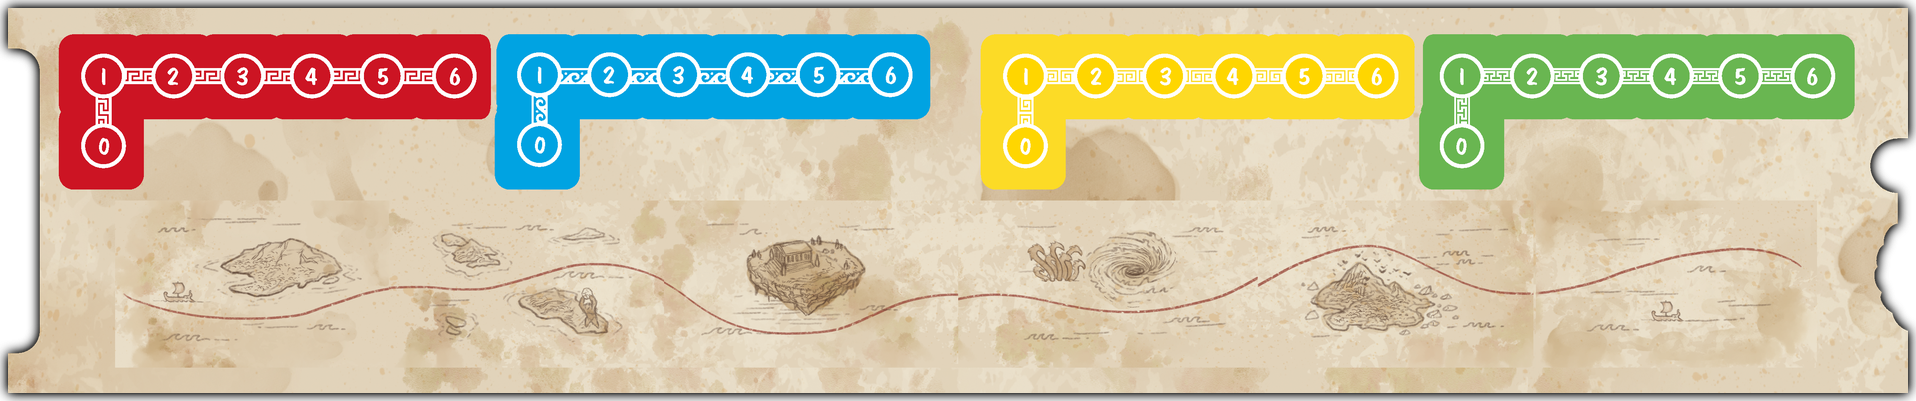
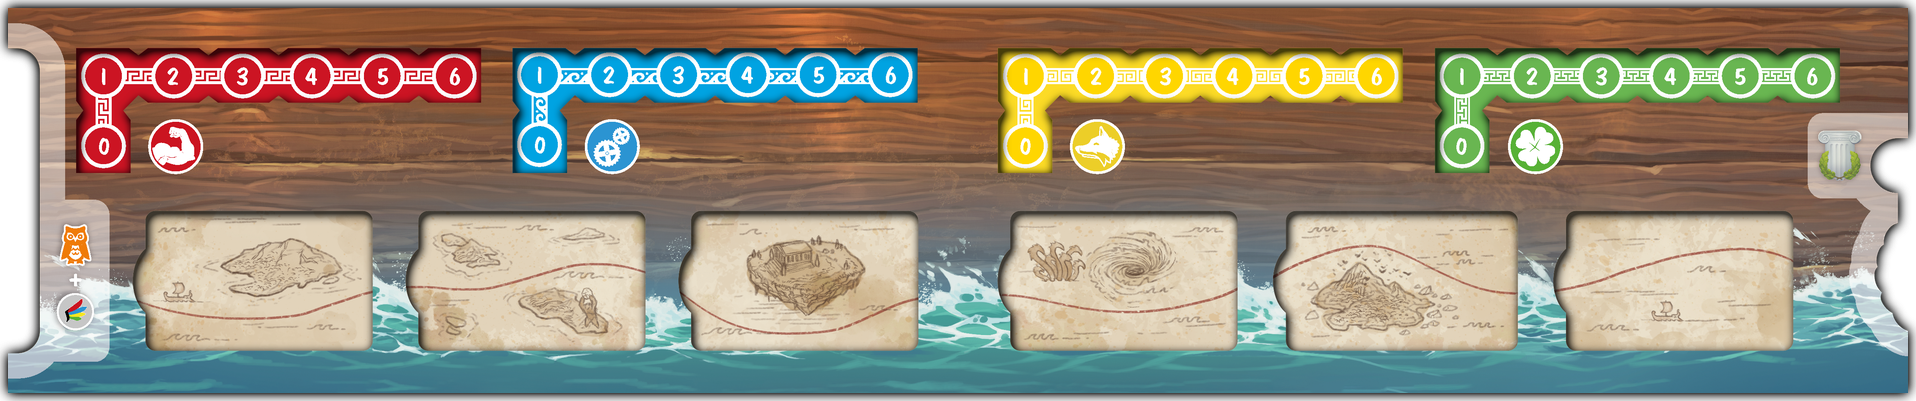
Fix StoryBoard image

diff --git a/CLAUDE.md b/CLAUDE.md
@@ -52,7 +52,7 @@ Source artwork: `C:\Users\romai\kDrive\Licences\Gigamic\Odysseus\ASSETS`.
 | Component | Copies | Distinct artworks | Images |
 |---|---|---|---|
 | Ship board (Navire d'Ulysse) | 1 | 1 | `boards/ShipBoard.jpg` |
-| Story board (plateau Récit) | 5 | **1** — all identical | `boards/StoryBoard.png` |
+| Story board (plateau Récit) | 5 | **1** — all identical, **2 glued layers** | `boards/StoryBoard.png` |
 | Trial card (carte Épreuve) | 60 | **60 — all unique** | `cards/trials/` |
 | Player aid card | 5 | **1** — all identical | `cards/PlayerAid{Front,Back}.jpg` |
 | Automa card | 16 | unknown — fronts not delivered | `cards/automa/AutomaBack.jpg` |
@@ -93,6 +93,11 @@ central 710 px (6 x 6 cm).
   Pantone swatches give the real size: 119 px = **1 x 1 cm cubes**. The render's top face measures
   257 x 259 px, hence a declared **1.65 x 1.67 cm** for the whole canvas so the cube itself reads 1 cm.
   Careful: the swatches and the 3D renders do NOT share the same colour order (03 and 04 are swapped).
+- **The Story board is composed from its two layers**: `PLATEAU PERSO-1ST LAYER-2.png` (the parchment
+  with the 4 skill tracks and the map) sits under `Die line PLATEAU PERSO-2ND LAYER - 2.png` (the wood
+  and sea top layer, cut out where the cubes and the Trial cards go). Both crop to the same
+  4489 x 910 box, so they align by bounding box. The cut edges cast a short soft shadow into each
+  recess — blurred alpha of the top layer, kept only inside the holes — which is what gives the relief.
 - **Icons** (`icons/`) are UI assets, not physical material: trimmed and capped at 256 px, no shadow.
   `Skills` is the four-coloured emblem standing for the cubes; `AthenaFavorFlat` is a stylised owl
   whose exact use is unconfirmed (`AthenaFavor` is the realistic token artwork).
@@ -104,7 +109,6 @@ central 710 px (6 x 6 cm).
 
 Unused source files, kept in mind rather than extracted: `ODYSSEUS-COVER.jpg`, `FOND-DOS DE BOITE.jpg`,
 `Odys_Plateau-bateau_mer_FINAL3-MER.jpg` (the sea layer of the ship board), `Odys_dauphins.psd`,
-`Die line PLATEAU PERSO-2ND LAYER` (die-cut line of the second layer of the story board),
 and the punchboard versos beyond the story token back.
 
 ## Project Structure
